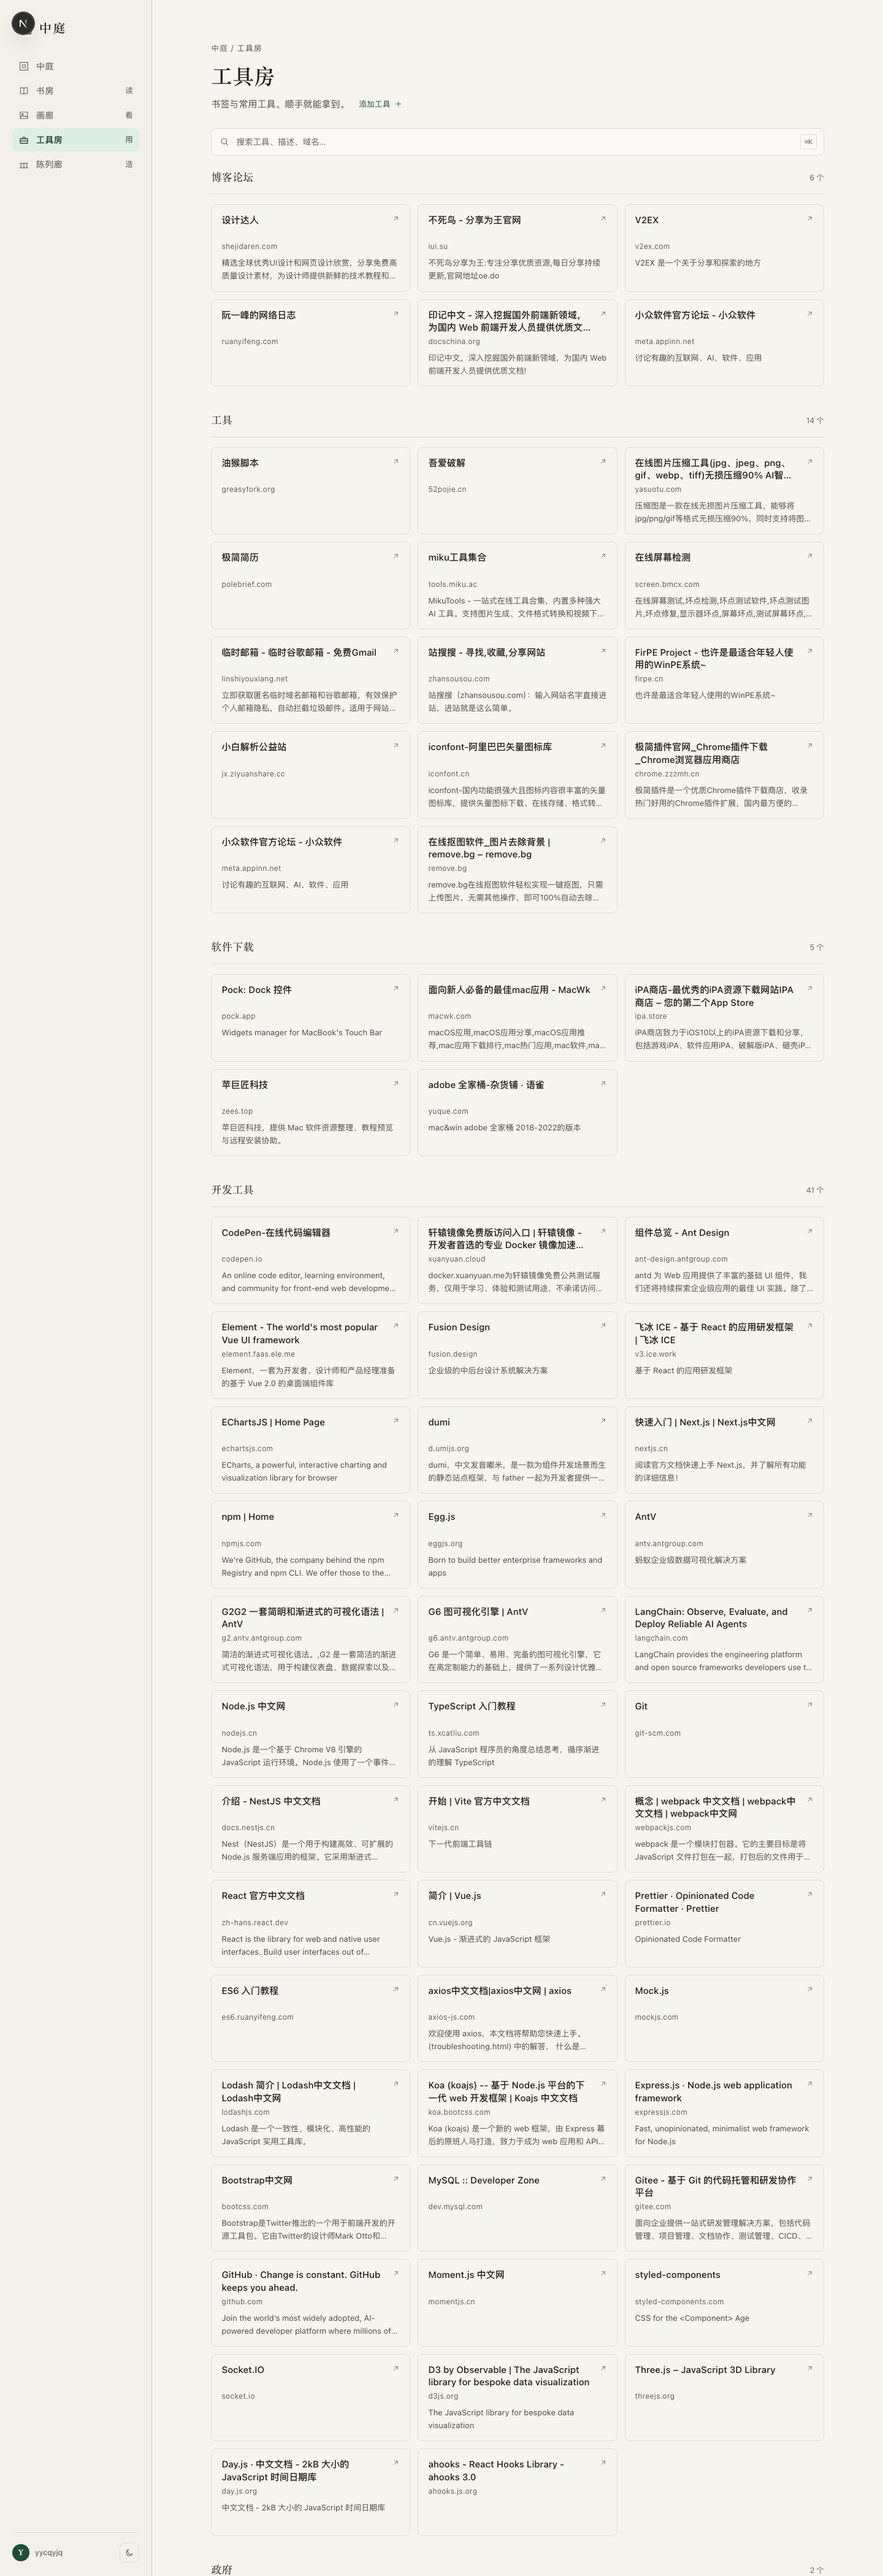
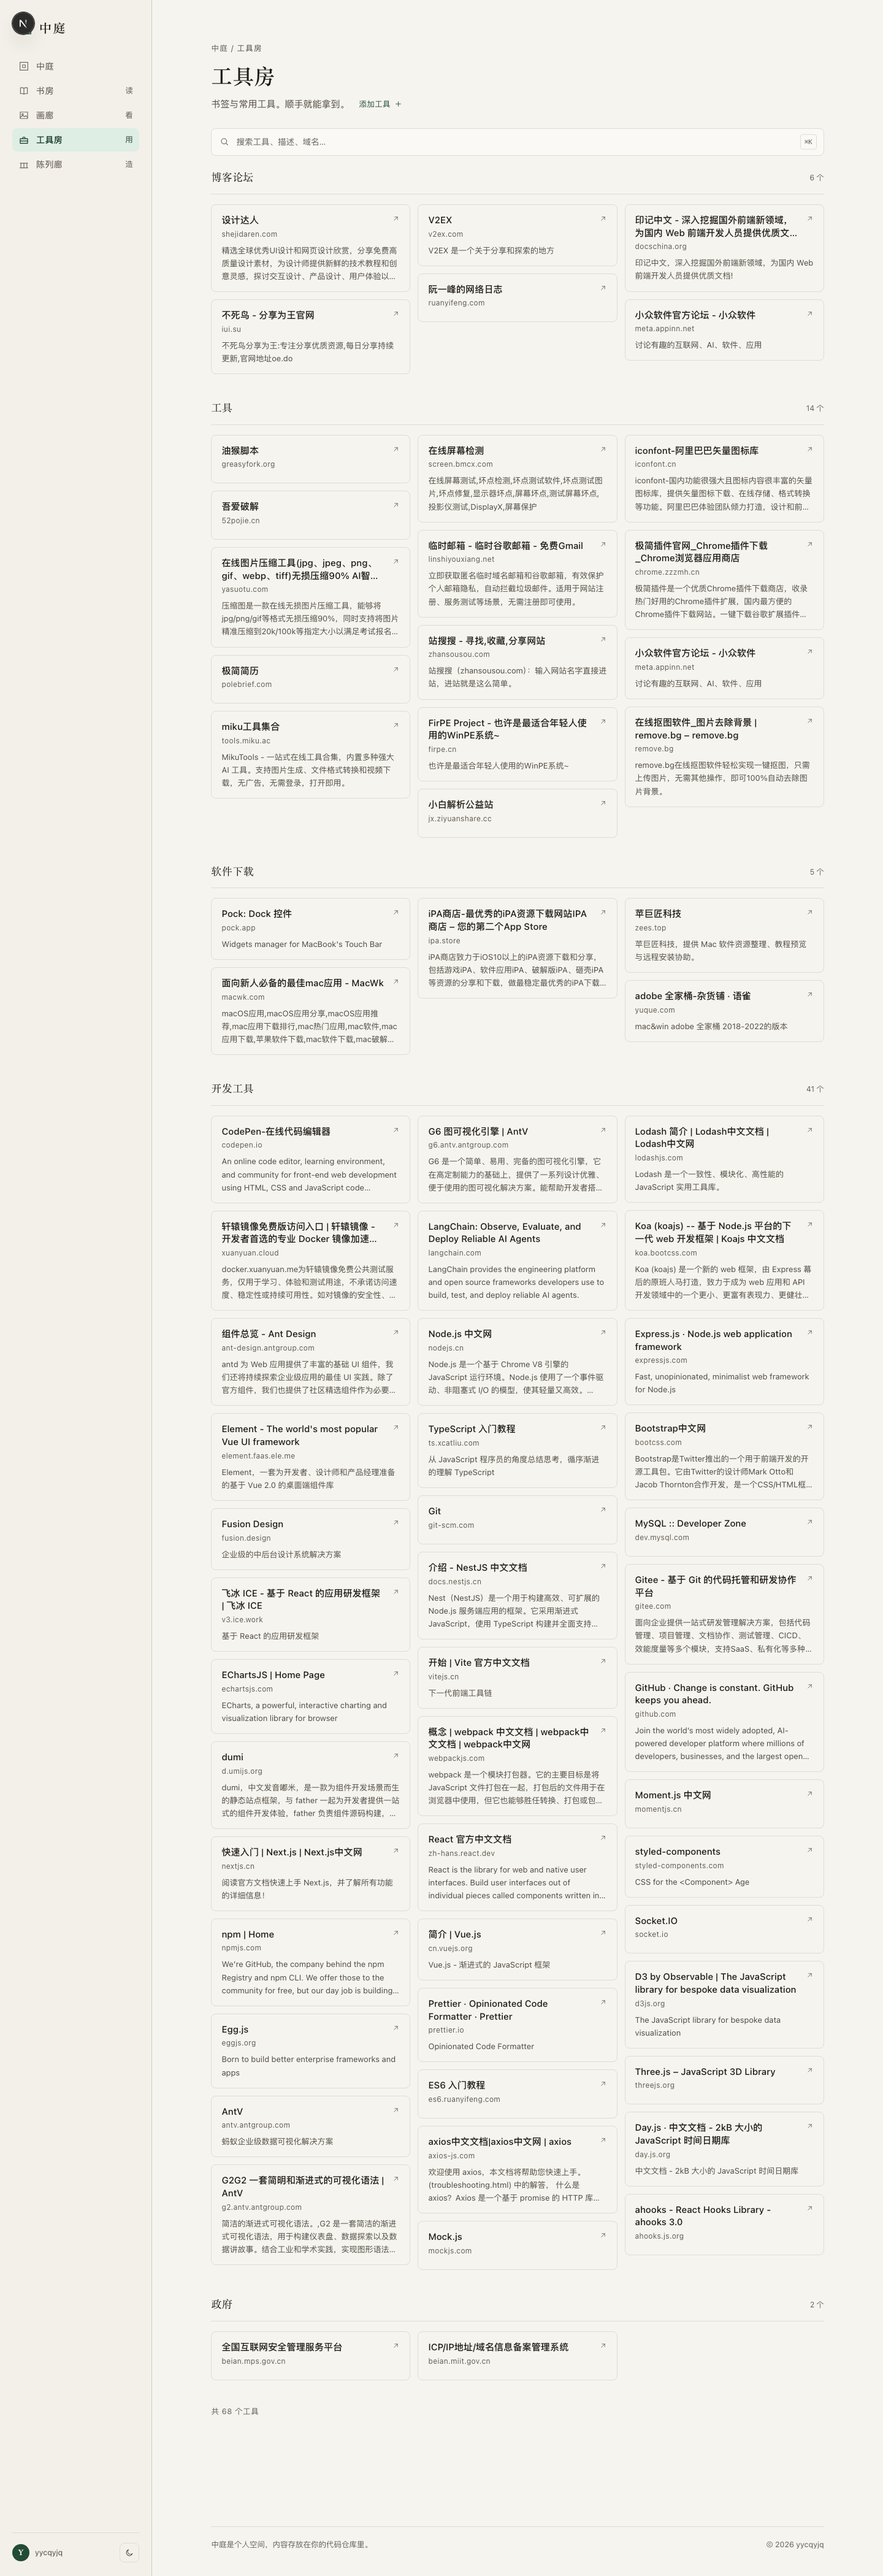
feat(layout): 工具房与画廊改为瀑布流布局（按用户反馈）
- 工具房：卡片自然高度、列内紧密堆叠（CSS 多列），去掉等高拉伸与预留空间；
  描述截断 3 行保留可读性；实测 68 卡 6 档自然高度（80~164px），3 列分布
- 画廊：图片按原始比例展示（去掉 4:3 固定比例与裁剪），瀑布流 4 列；
  实测 14 张图 5 档高度（自然比例），灯箱行为不变
- 评审确认：两处均为瀑布流形态、无破版、观感清爽

diff --git a/src/components/tools/ToolsList.tsx b/src/components/tools/ToolsList.tsx
@@ -132,13 +132,13 @@ export default function ToolsList({ groups, canWrite = false }: { groups: ToolGr
                 <h2 className="font-serif text-[17px] tracking-[0.02em]">{group.name}</h2>
                 <span className="text-[12px] text-ink-3">{group.items.length} 个</span>
               </div>
-              <ul className="grid gap-3 md:grid-cols-2 xl:grid-cols-3">
+              <ul className="gap-3 md:columns-2 xl:columns-3">
                 {group.items.map((tool) => {
                   const key = `${tool.name}|${tool.url}`;
                   return (
-                    <li key={`${tool.category}/${tool.name}`} className="h-full">
+                    <li key={`${tool.category}/${tool.name}`} className="mb-3 break-inside-avoid">
                       {editTool === key ? (
-                        <div className="flex h-full flex-col rounded-ctl border border-accent bg-accent-soft px-4 py-3.5">
+                        <div className="rounded-ctl border border-accent bg-accent-soft px-4 py-3.5">
                           <p className="mb-2 text-[12px] tracking-[0.08em] text-accent-ink">编辑工具</p>
                           <input
                             value={editForm.name}
@@ -176,7 +176,7 @@ export default function ToolsList({ groups, canWrite = false }: { groups: ToolGr
                           </div>
                         </div>
                       ) : confirmDelete === key ? (
-                        <div className="flex h-full flex-col rounded-ctl border border-accent bg-accent-soft px-4 py-3.5">
+                        <div className="rounded-ctl border border-accent bg-accent-soft px-4 py-3.5">
                           <p className="mb-2.5 text-[12.5px] leading-relaxed text-accent-ink">
                             从清单移除「{tool.name}」？
                           </p>
@@ -202,7 +202,7 @@ export default function ToolsList({ groups, canWrite = false }: { groups: ToolGr
                         href={tool.url}
                         target="_blank"
                         rel="noreferrer"
-                        className="group relative flex h-full flex-col rounded-ctl border border-line px-4 py-3.5 transition-colors duration-200 hover:border-line-strong"
+                        className="group relative block rounded-ctl border border-line px-4 py-3.5 transition-colors duration-200 hover:border-line-strong"
                       >
                         {canWrite && confirmDelete !== key ? (
                           <span className="absolute right-2 top-2 flex items-center gap-0.5 opacity-0 transition-all duration-150 group-hover:opacity-100">
@@ -238,7 +238,7 @@ export default function ToolsList({ groups, canWrite = false }: { groups: ToolGr
                           </span>
                         ) : null}
                         <span className="mb-0.5 flex items-start justify-between gap-3">
-                          <span className="line-clamp-2 min-h-[2.75em] font-medium leading-snug tracking-[0.01em] transition-colors duration-200 group-hover:text-accent">
+                          <span className="line-clamp-2 font-medium leading-snug tracking-[0.01em] transition-colors duration-200 group-hover:text-accent">
                             {tool.name}
                           </span>
                           {!(canWrite) ? (
@@ -258,7 +258,7 @@ export default function ToolsList({ groups, canWrite = false }: { groups: ToolGr
                           ) : null}
                         </span>
                         <span className="block text-[12px] tracking-[0.03em] text-ink-3">{hostOf(tool.url)}</span>
-                        <span className="mt-1.5 line-clamp-2 min-h-[42px] text-[13px] leading-relaxed text-ink-2">
+                        <span className="mt-1.5 line-clamp-3 text-[13px] leading-relaxed text-ink-2">
                           {tool.description}
                         </span>
                       </a>

diff --git a/src/components/gallery/GalleryGrid.tsx b/src/components/gallery/GalleryGrid.tsx
@@ -103,13 +103,13 @@ export default function GalleryGrid({
 
   return (
     <>
-      <div className="grid grid-cols-2 gap-3 md:grid-cols-3 xl:grid-cols-4">
+      <div className="columns-2 gap-3 md:columns-3 xl:columns-4">
         {images.map((image, i) => (
           <button
             key={image.path}
             type="button"
             onClick={() => setCurrent(i)}
-            className="group block cursor-zoom-in overflow-hidden rounded-ctl border border-line text-left transition-colors duration-200 hover:border-line-strong"
+            className="group mb-3 block w-full break-inside-avoid cursor-zoom-in overflow-hidden rounded-ctl border border-line text-left transition-colors duration-200 hover:border-line-strong"
             title={image.name}
           >
             {/* 图片直接来自仓库原始文件（raw），按需懒加载 */}
@@ -118,7 +118,7 @@ export default function GalleryGrid({
               fallbacks={image.fallbackUrls}
               alt={image.name}
               loading="lazy"
-              className="block aspect-[4/3] w-full object-cover transition-opacity duration-200 group-hover:opacity-90"
+              className="block w-full transition-opacity duration-200 group-hover:opacity-90"
             />
           </button>
         ))}
